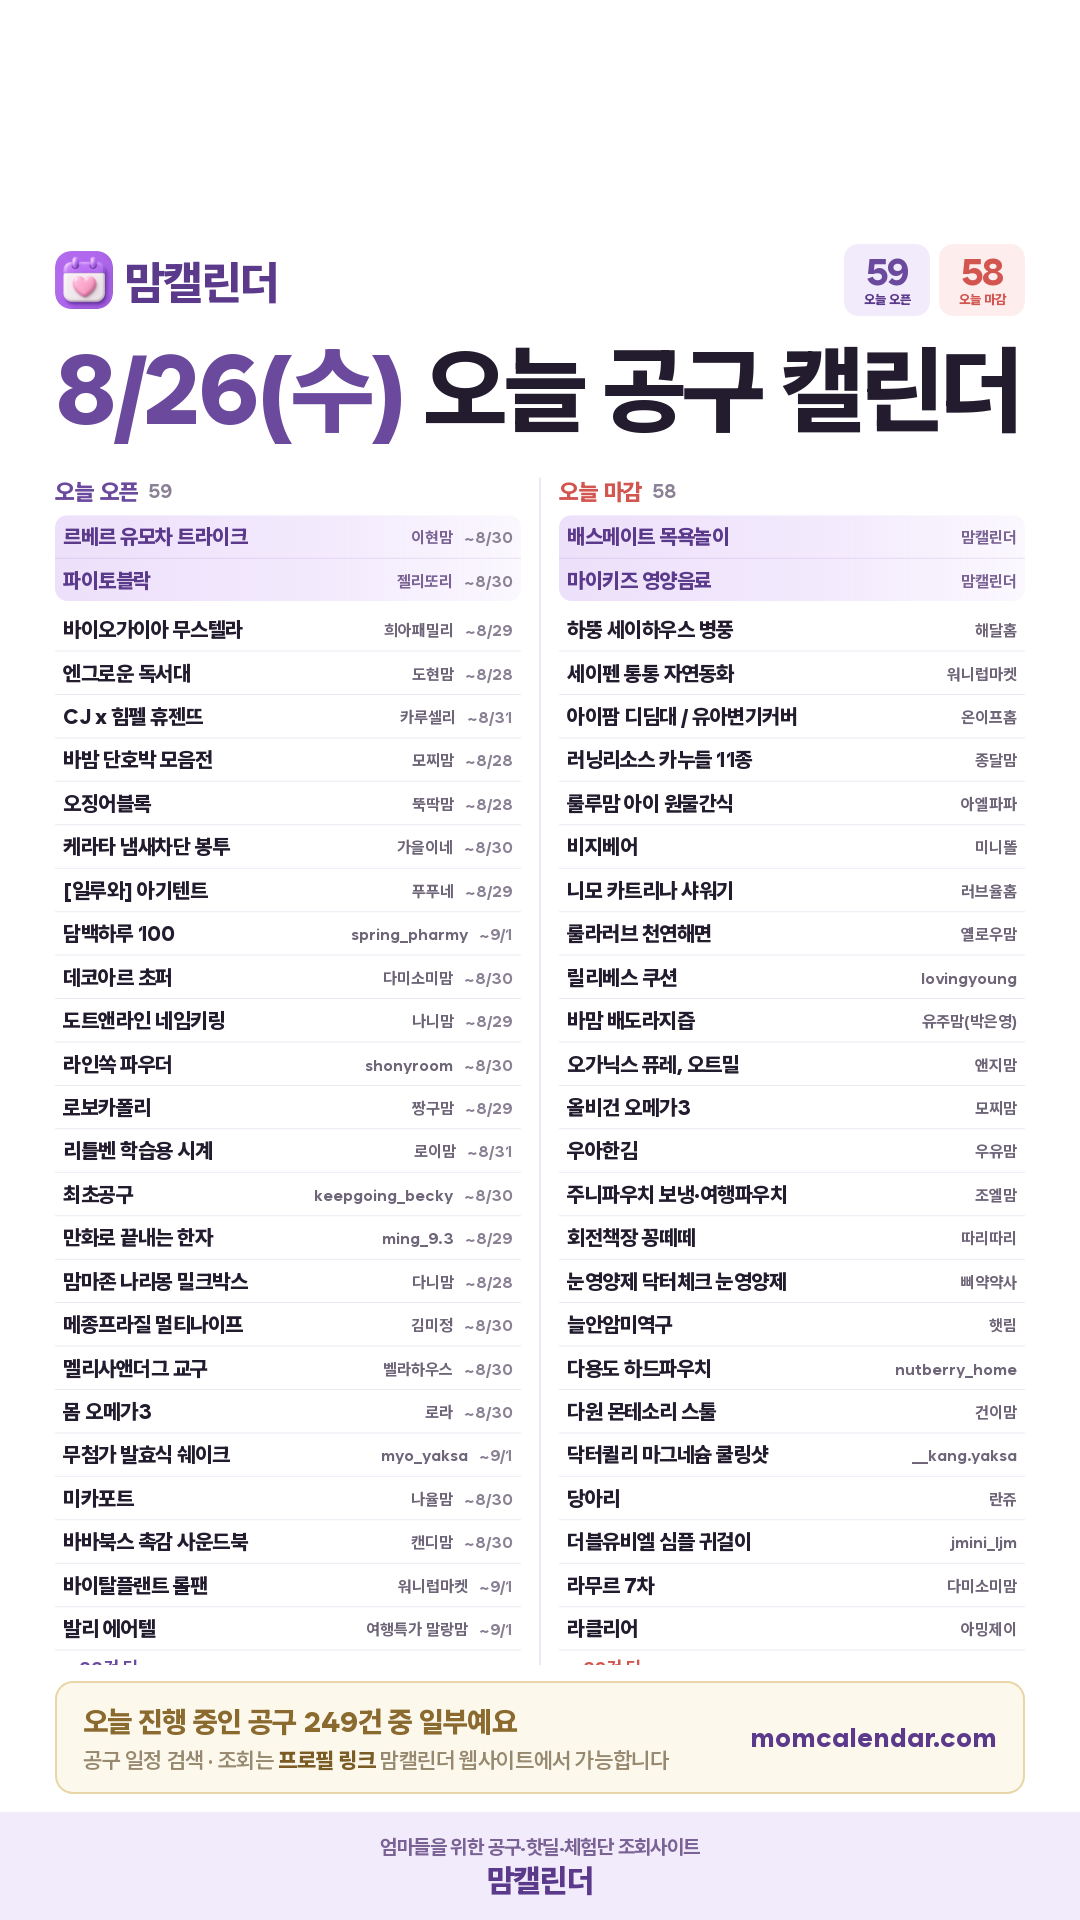
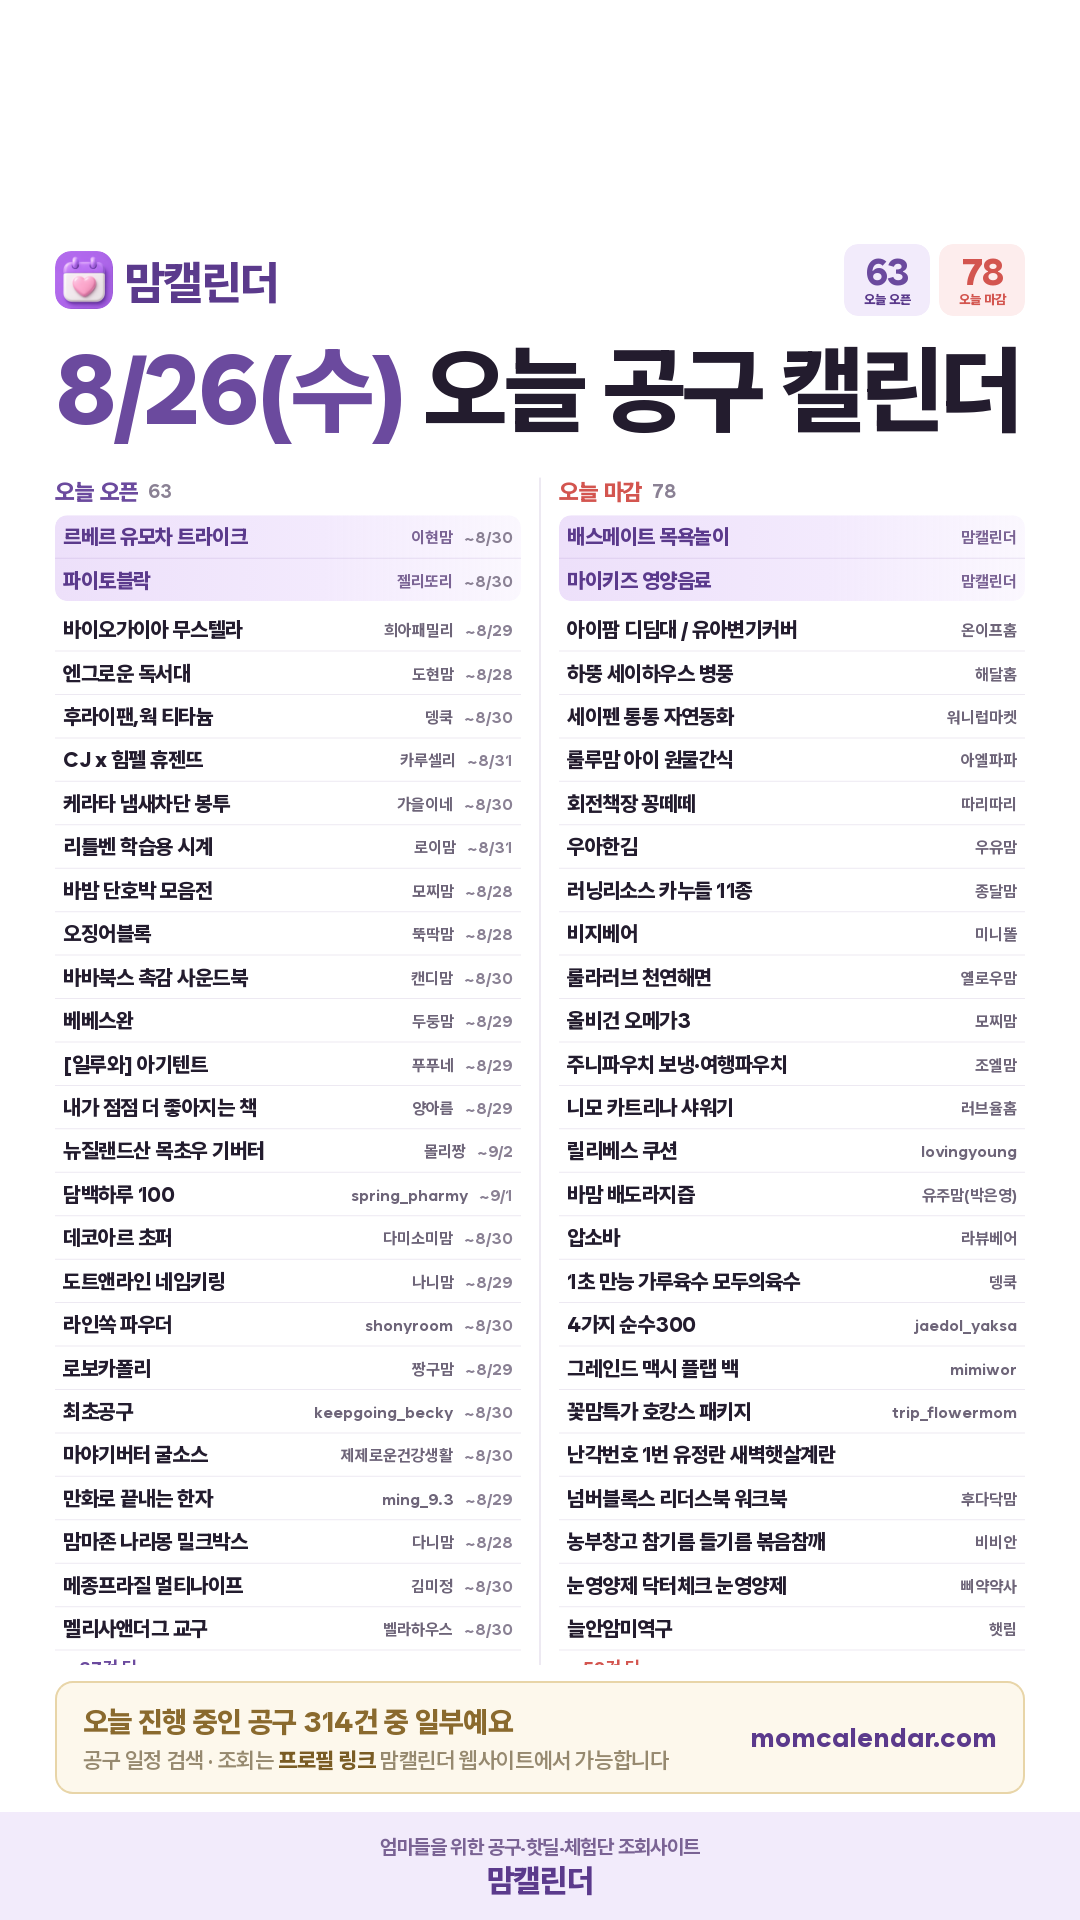
아침 인스타 카드 (2026-08-24)

diff --git a/daily/2026-08-26.html b/daily/2026-08-26.html
@@ -19,7 +19,7 @@ textarea{width:100%;height:260px;border:1px solid #E3DCEF;border-radius:10px;pad
 .todo p{font-size:12.5px;color:#6B6379;line-height:1.75;margin-top:6px}
 .todo a{color:#5B2E8C;font-weight:700}
 </style></head><body>
-<div class="hd"><div class="wrap"><h1>8월 26일(수) 인스타 카드</h1><p>오픈 59건 · 마감 58건</p></div></div>
+<div class="hd"><div class="wrap"><h1>8월 26일(수) 인스타 카드</h1><p>오픈 63건 · 마감 78건</p></div></div>
 <div class="wrap">
   
   <div class="card"><img src="./2026-08-26.png" alt="오늘 공구 카드"></div>
@@ -30,7 +30,7 @@ textarea{width:100%;height:260px;border:1px solid #E3DCEF;border-radius:10px;pad
 맘캘린더에서 공유드리는
 8월 26일(수) 오늘 공구 캘린더
 
-오픈 56건 · 마감 55건
+오픈 60건 · 마감 72건
 
 ━━━━━━━━━━━━━━
 
@@ -41,18 +41,24 @@ textarea{width:100%;height:260px;border:1px solid #E3DCEF;border-radius:10px;pad
 🔓 오늘 오픈하는 공구
 · 바이오가이아+무스텔라 2차 — 희아패밀리 (~8/29)
 · 엔그로운 독서대 — 도현맘 (~8/28)
+· 후라이팬,웍 정착! 알텐바흐 티타늄 — 뎅쿡 (~8/30)
 · CJ x 힘펠 휴젠뜨 — 카루셀리 (~8/31)
+· 케라타 완벽 냄새차단 봉투 2차 — 가을이네 (~8/30)
+· 리틀벤 학습용 시계 — 로이맘 (~8/31)
 · 바밤 단호박 모음전 — 모찌맘 (~8/28)
 · 오징어블록 — 뚝딱맘 (~8/28)
-· 케라타 완벽 냄새차단 봉투 2차 — 가을이네 (~8/30)
+· 바바북스 촉감 사운드북 — 캔디맘 (~8/30)
+· 베베스완 — 두둥맘 (~8/29)
 · [일루와] 아기텐트 — 푸푸네 (~8/29)
+· 내가 점점 더 좋아지는 책 — 양아름 (~8/29)
+· 뉴질랜드산 자연방목 목초우 기버터 3차 — 몰리짱 (~9/2)
 · 담백하루 아르기닌 라이신 니트로 100 — spring_pharmy (~9/1)
 · 데코아르 초퍼 — 다미소미맘 (~8/30)
 · 도트앤라인 네임스티커·의류네임스티커·네임키링 — 나니맘 (~8/29)
 · 라인쏙 파우더 — shonyroom (~8/30)
 · 로보카폴리 — 짱구맘 (~8/29)
-· 리틀벤 학습용 시계 — 로이맘 (~8/31)
 · 마들푸드 닭갈비 최초공구 — keepgoing_becky (~8/30)
+· 마야기버터 3분짜장 굴소스 — 제제로운건강생활 (~8/30)
 · 만화로 끝내는 한자 — ming_9.3 (~8/29)
 · 맘마존 끝판왕, 나리몽 밀크박스 (2차) — 다니맘 (~8/28)
 · 메종프라질 멀티나이프 — 김미정 (~8/30)
@@ -60,52 +66,42 @@ textarea{width:100%;height:260px;border:1px solid #E3DCEF;border-radius:10px;pad
 · 몸 오메가3 — 로라 (~8/30)
 · 무첨가 밤콩두유 · 발효식 쉐이크 6차 — myo_yaksa (~9/1)
 · 미카포트 — 나율맘 (~8/30)
-· 바바북스 촉감 사운드북 — 캔디맘 (~8/30)
 · 바이탈플랜트 롤팬 — 워니럽마켓 (~9/1)
 · 발리 에어텔 — 여행특가 말랑맘 (~9/1)
-· 베라수 — 유자몽 (~8/30)
-· 베베스완 — 두둥맘 (~8/29)
-· 베이비스탠다드 육아필수템 — 유림 (~8/29)
-· 뽕나시 — song_rina (~8/30)
-· 쁘리엘르 낮잠이불 — 뭉실맘 (~8/30)
-· 샤넬 루쥬코코 글로스, 듀오드밤 — mimiwor (~9/1)
-· 샤토에르 수납함 — 나도살림 (~8/29)
-…나머지 23건은 맘캘린더 사이트에서 보실 수 있어요
+…나머지 29건은 맘캘린더 사이트에서 보실 수 있어요
 
 ⏰ 오늘 마감하는 공구
 · 배스메이트 목욕놀이 — 맘캘린더 @momcal_
 · 마이키즈 영양음료 — 맘캘린더 @momcal_
+· 아이팜 디딤대 / 유아변기커버 — 온이프홈
 · 하뚱 세이하우스 병풍 — 해달홈
 · 세이펜 통통 자연동화 — 워니럽마켓
-· 아이팜 디딤대 / 유아변기커버 — 온이프홈
-· 러닝리소스 카누들 11종 — 종달맘
 · 룰루맘 아이 원물간식 — 아엘파파
+· 회전책장 꽁떼떼 — 따리따리
+· 우아한김 — 우유맘
+· 러닝리소스 카누들 11종 — 종달맘
 · 비지베어 — 미니똘
-· 니모 카트리나 샤워기 — 러브율홈
 · 룰라러브 천연해면 — 옐로우맘
+· 올비건 오메가3 — 모찌맘
+· 주니파우치 보냉·여행파우치 — 조엘맘
+· 니모 카트리나 샤워기 — 러브율홈
 · 릴리베스 쿠션 — lovingyoung
 · 바맘 배도라지즙 — 유주맘(박은영)
-· 오가닉스 퓨레, 오트밀 — 앤지맘
-· 올비건 오메가3 — 모찌맘
-· 우아한김 — 우유맘
-· 주니파우치 보냉·여행파우치 — 조엘맘
-· 회전책장 꽁떼떼 — 따리따리
+· 압소바 — 라뷰베어
+· 1초 요똥 탈출템 만능 가루육수 모두의육수 — 뎅쿡
+· 4가지 종류의 마그네슘이 한 알에 담긴 비타푸드 콰트로마그네슘 순수300 — jaedol_yaksa
+· 그레인드 카프스킨 맥시 플랩 백 — mimiwor
+· 꽃맘특가 가족 워터파크 호캉스 패키지 — trip_flowermom
+· 난각번호 1번 유정란 새벽햇살계란 — 
+· 넘버블록스 러닝 DVD 리더스북 워크북 — 후다닥맘
+· 농부창고 국산 참기름 들기름 볶음참깨 — 비비안
 · 눈영양제 어벤져스 닥터체크 눈영양제 — 삐약약사
 · 늘안암미역구 — 햇림
 · 다용도 하드파우치 — nutberry_home
 · 다원 몬테소리 스툴 — 건이맘
+· 닥터점키 점프매트 — 쿵동맘
 · 닥터퀼리 트리플 마그네슘 쿨링샷 — __kang.yaksa
-· 당아리 — 란쥬
-· 더블유비엘 심플 귀걸이 — jmini_ljm
-· 라무르 7차 — 다미소미맘
-· 라클리어 — 아밍제이
-· 롱비다 원료 모비타커큐민 — 뷰약사
-· 루시아이 가방걸이 — 누누홈
-· 룬드런던 샐러드팟 / 후르츠팟 — 제제백화점
-· 리안 벨라 휴대용유모차 — 로로맘
-· 릴팡 x 카카오 역대 할인 — 두둥맘
-· 맛있는 톡톡 오메가3 츄어블 — yak_father
-…나머지 23건은 맘캘린더 사이트에서 보실 수 있어요
+…나머지 42건은 맘캘린더 사이트에서 보실 수 있어요
 
 ━━━━━━━━━━━━━━
 
@@ -118,7 +114,7 @@ textarea{width:100%;height:260px;border:1px solid #E3DCEF;border-radius:10px;pad
 ⚠ 공구 일정은 판매자 사정에 따라 변경되거나 조기 마감될 수 있어요. 구매 전에 해당 셀러 계정에서 한 번 더 확인해 주세요.
 
 #맘캘린더 #공구일정 #육아공구 #육아용품 #책육아 #아기용품 #유아용품 #놀잇감 #공구오픈 #공구모음 #오늘의공구 #공구추천</textarea>
-    <div class="meta">2175자 / 2200자 · 오픈 31/54 · 마감 32/55</div>
+    <div class="meta">2192자 / 2200자 · 오픈 29/58 · 마감 30/72</div>
     <button class="btn btn2" onclick="cp('cap','캡션')">캡션 복사</button>
   </div>
   <div class="card">
@@ -136,20 +132,20 @@ textarea{width:100%;height:260px;border:1px solid #E3DCEF;border-radius:10px;pad
 · 카톡 수다방 → https://open.kakao.com/o/gr2kJhCh
 ─────────────
 
-8월 26일(수), 오늘 새로 오픈하는 인스타 공구일정 60건을 카테고리별로 정리했어요.
-오늘 마감되는 공구도 59건 있으니 놓치지 마세요.
+8월 26일(수), 오늘 새로 오픈하는 인스타 공구일정 63건을 카테고리별로 정리했어요.
+오늘 마감되는 공구도 79건 있으니 놓치지 마세요.
 
 (여기에 저장해 두신 카드 사진을 넣어주세요)
 
-■ 오늘 오픈하는 공구 60건
+■ 오늘 오픈하는 공구 63건
 
 [육아]
 · [일루와] 아기텐트 — 푸푸네 (~8/29 마감)
+· 내가 점점 더 좋아지는 책 — 양아름 (~8/29 마감)
 · 도트앤라인 네임스티커·의류네임스티커·네임키링 — 나니맘 (~8/29 마감)
 · 로보카폴리 — 짱구맘 (~8/29 마감)
 · 르베르 스핀 360 유모차 트라이크 — 이현맘 (~8/30 마감)
 · 리틀벤 학습용 시계 — 로이맘 (~8/31 마감)
-· 마이키즈 우리 아이 영양 간식 — 건이맘 (~8/29 마감)
 · 만화로 끝내는 한자 — ming_9.3 (~8/29 마감)
 · 맘마존 끝판왕, 나리몽 밀크박스 (2차) — 다니맘 (~8/28 마감)
 · 멜리사앤더그 와우 시리즈+교구 — 벨라하우스 (~8/30 마감)
@@ -186,7 +182,9 @@ textarea{width:100%;height:260px;border:1px solid #E3DCEF;border-radius:10px;pad
 · 프레이포잇 17차 — solsol_home (~8/30 마감)
 
 [식품]
+· 뉴질랜드산 자연방목 목초우 기버터 3차 — 몰리짱 (~9/2 마감)
 · 마들푸드 닭갈비 최초공구 — keepgoing_becky (~8/30 마감)
+· 마야기버터 3분짜장 굴소스 — 제제로운건강생활 (~8/30 마감)
 · 무첨가 밤콩두유 · 발효식 쉐이크 6차 — myo_yaksa (~9/1 마감)
 · 바밤 단호박 모음전 — 모찌맘 (~8/28 마감)
 · 통영산 돌문어 — 로라 (~8/31 마감)
@@ -204,6 +202,7 @@ textarea{width:100%;height:260px;border:1px solid #E3DCEF;border-radius:10px;pad
 
 [뷰티]
 · 베라수 — 유자몽 (~8/30 마감)
+· 하루 야채와 과일을 한포에 베지앤프룻 — alpaca_yaksa (~8/29 마감)
 
 [가전]
 · CJ x 힘펠 휴젠뜨 — 카루셀리 (~8/31 마감)
@@ -223,16 +222,27 @@ textarea{width:100%;height:260px;border:1px solid #E3DCEF;border-radius:10px;pad
 [기타]
 · 데코아르 초퍼 — 다미소미맘 (~8/30 마감)
 
-■ 오늘 마감하는 공구 59건
+■ 오늘 마감하는 공구 79건
+· 1초 요똥 탈출템 만능 가루육수 모두의육수 — 뎅쿡
+· 4가지 종류의 마그네슘이 한 알에 담긴 비타푸드 콰트로마그네슘 순수300 — jaedol_yaksa
+· CJ 씨베리 100% 주스 — heung_jubu
 · D3K2 츄어블 2000 &amp; 부스터 5000 — 베이지약사
+· 그레인드 카프스킨 맥시 플랩 백 — mimiwor
+· 꽃맘특가 가족 워터파크 호캉스 패키지 — trip_flowermom
+· 난각번호 1번 유정란 새벽햇살계란 — 
+· 넘버블록스 러닝 DVD 리더스북 워크북 — 후다닥맘
+· 농부창고 국산 참기름 들기름 볶음참깨 — 비비안
 · 눈영양제 어벤져스 닥터체크 눈영양제 — 삐약약사
 · 늘안암미역구 — 햇림
 · 니모 카트리나 샤워기 — 러브율홈
 · 다용도 하드파우치 — nutberry_home
 · 다원 몬테소리 스툴 — 건이맘
+· 닥터점키 점프매트 — 쿵동맘
 · 닥터퀼리 트리플 마그네슘 쿨링샷 — __kang.yaksa
 · 당아리 — 란쥬
+· 대마도 1박2일 온천 패키지 여행 — bringyou_unni
 · 더블유비엘 심플 귀걸이 — jmini_ljm
+· 디즈니 가을 패밀리 파자마 — 마이희로
 · 라무르 7차 — 다미소미맘
 · 라클리어 — 아밍제이
 · 러닝리소스 카누들 11종 — 종달맘
@@ -247,24 +257,31 @@ textarea{width:100%;height:260px;border:1px solid #E3DCEF;border-radius:10px;pad
 · 마이키즈 영양음료 — 맘캘린더
 · 맛있는 톡톡 오메가3 츄어블 — yak_father
 · 매드매터 — 나율맘
+· 멜로팝 픽더밸런스 단백질쉐이크 — umjigongmom
+· 모슈 텀블러&amp;머그 — 프롬졸리
+· 미니깜찍팝업북 — 씽맘
 · 미라클 갈비탕 — miracle_eunju119
 · 밀키요 스퀴징 요거트 — 콩알픽
 · 바맘 배도라지즙 — 유주맘(박은영)
 · 배스메이트 목욕놀이 — 맘캘린더
 · 베리네이처 소고기큐브 — 도담맘
 · 비지베어 — 미니똘
+· 뽀로로 변신 경찰본부 자동차마을 타워 — 6a.how
+· 뽀로로 사운드카드 전용 보관함 — 하짱네
 · 사구아로 베어풋 — 로라
 · 세이펜 통통 자연동화 — 워니럽마켓
+· 소노캄 가족 3인 4인 PKG 숙박 공구 — ddorddor
 · 수파오이지 — 로라
 · 시로카라 클래식 백팩 — 도다미네
 · 식이습관 — 린쥬하니
+· 실내 동물 체험 테마파크 이용권 — gwiyeon_cho
 · 아이팜 디딤대 / 유아변기커버 — 온이프홈
 · 압소바 — 라뷰베어
 · 앨리트타일즈 블럭 — 뭉실맘
 · 어린이 하버드 새벽 4시 — 위쓰담북
-· 오가닉스 퓨레, 오트밀 — 앤지맘
 · 올비건 오메가3 — 모찌맘
 · 우아한김 — 우유맘
+· 울애기쌩쌩 영양 사료 용품 모음전 — cute_booqoo
 · 유기농 계란 2차 — 알로아홈
 · 유일 전통 소창 수건 — 지엠마
 · 이름 테이프 — 또담이네
@@ -277,7 +294,9 @@ textarea{width:100%;height:260px;border:1px solid #E3DCEF;border-radius:10px;pad
 · 주니 물컵 — 말랑맘
 · 주니 텀블러 — 채쓰맘
 · 주니파우치 보냉·여행파우치 — 조엘맘
+· 코마사 호텔수건 — 깎언니
 · 타랄리니 — __a.fit.__
+· 트루엔 빌베리 포스베리 — 
 · 트루쿡 에그팬 모음전 — 뚜뚜맘
 · 피부장벽 지켜, 판테놀 30% 장벽젤 — 다니맘
 · 하뚱 세이하우스 병풍 — 해달홈
@@ -285,7 +304,7 @@ textarea{width:100%;height:260px;border:1px solid #E3DCEF;border-radius:10px;pad
 · 회전책장 꽁떼떼 — 따리따리
 
 ■ 오늘의 브랜드: CJ
-· CJ 공구는 인스타 셀러들이 기간을 정해 여는 공동구매예요. 최근에는 카루셀리, 유딘살림, 더위시 님이 진행했어요.
+· CJ 공구는 인스타 셀러들이 기간을 정해 여는 공동구매예요. 최근에는 카루셀리, heung_jubu, 째째홈 님이 진행했어요.
 · 가격은 오픈일에 셀러 계정 공지로 공개돼요. 같은 제품이라도 셀러·구성에 따라 조금씩 달라서, 공지에서 확인하는 게 가장 정확해요.
 · 이번에 놓쳤다면 너무 아쉬워하지 마세요. CJ 공구는 보통 일정 간격을 두고 다시 열려요. 전체 일정은 여기서 → https://momcalendar.com
 

diff --git a/daily/index.html b/daily/index.html
@@ -1,1 +1,1 @@
-<!DOCTYPE html><meta charset="UTF-8"><meta http-equiv="refresh" content="0;url=./2026-08-25.html">
+<!DOCTYPE html><meta charset="UTF-8"><meta http-equiv="refresh" content="0;url=./2026-08-26.html">
